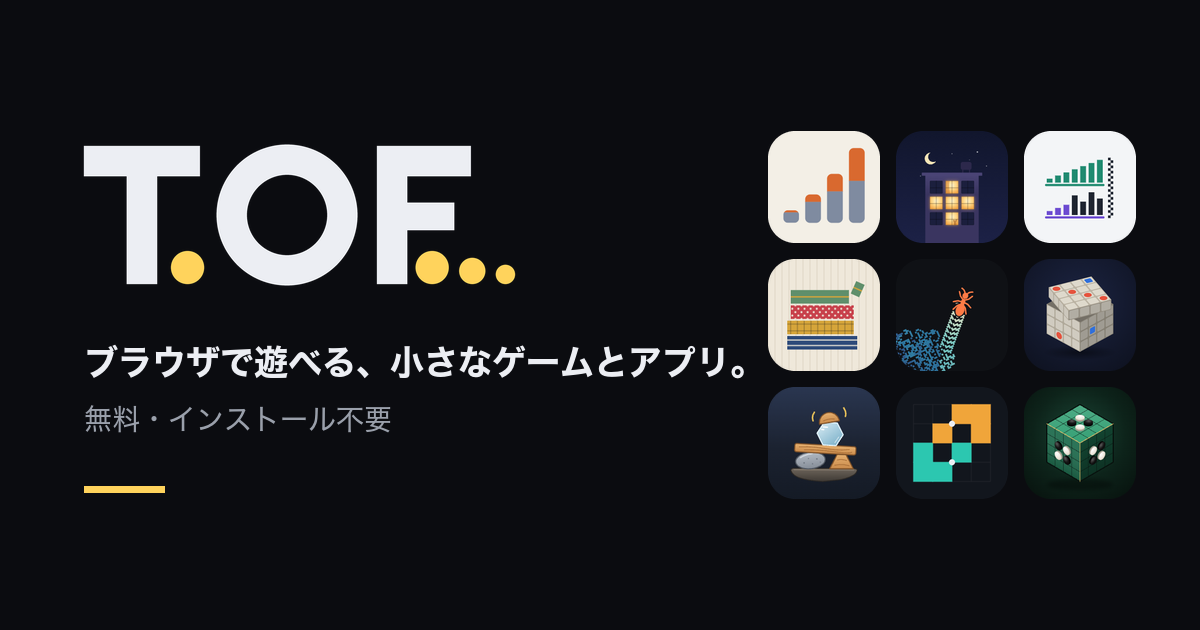
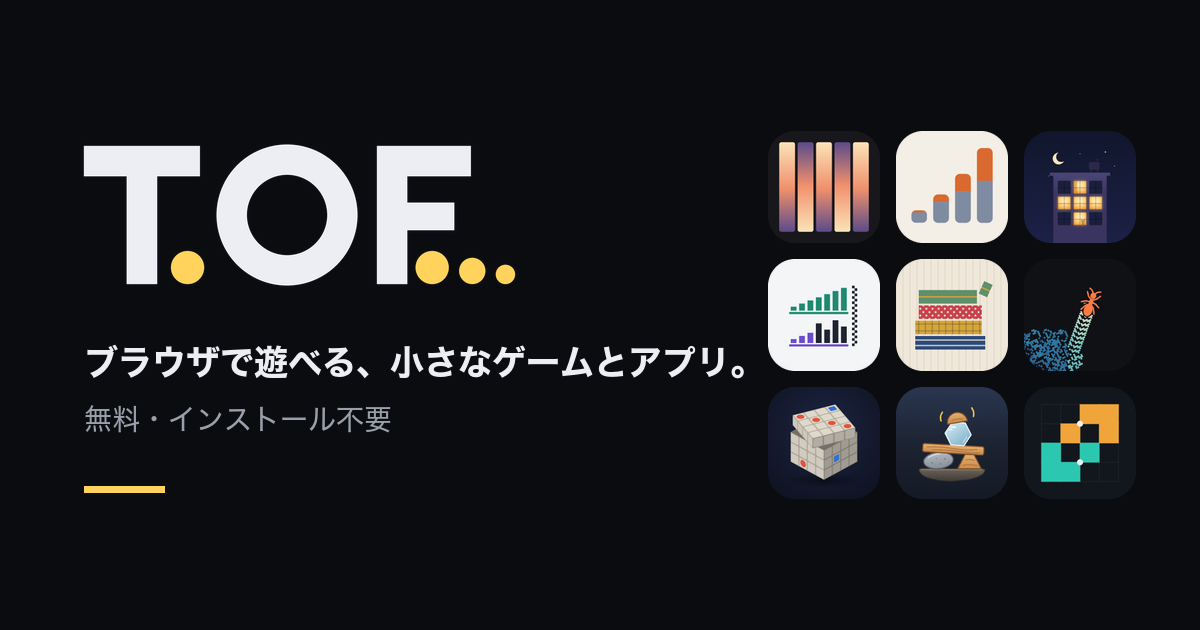
かがみがみをポータルに追加する
新しいアプリ「かがみがみ」を apps.js に追加し、共有画像を再生成しました。

Changed region(s): [[0.6167, 0.181, 0.9558, 0.7841]]

diff --git a/apps.js b/apps.js
@@ -13,6 +13,16 @@
 
 window.TOFO_APPS = [
   {
+    id: 'kagamigami',
+    name: 'かがみがみ',
+    title: '写真を切って並べる万華鏡',
+    desc: '写真を鏡に映したように 4 枚並べ、細い短冊に切って端から交互に並べ直す。短冊の数を変えるだけで、万華鏡のような模様が次々に変わる。',
+    category: 'tool',
+    tags: ['画像', 'アート'],
+    icon: '/kagamigami/icons/icon-192.png',
+    color: '#18171c',
+  },
+  {
     id: 'tsumitate',
     name: '積立投資シミュレーター',
     title: '毎月の積み立て、何年後にいくら',
